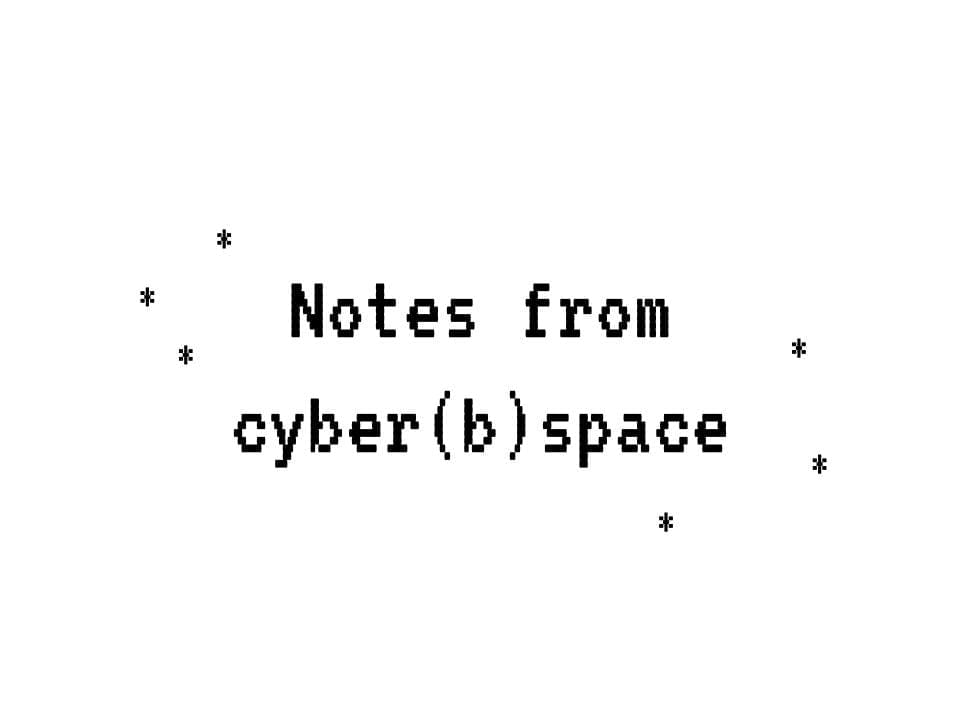
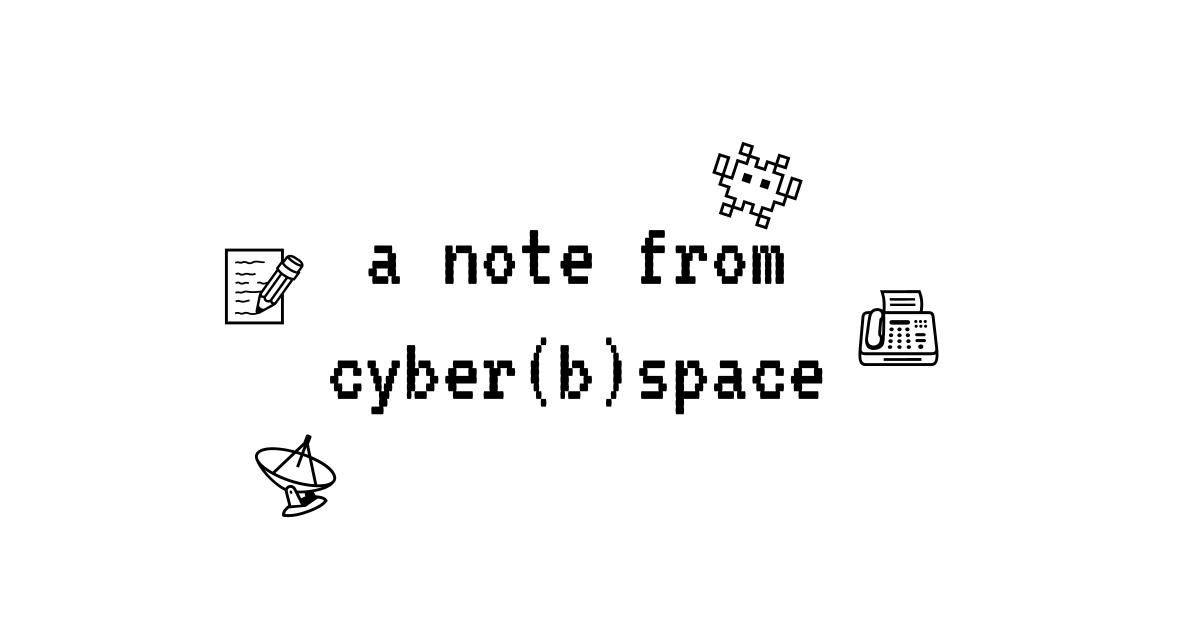
[chore] update social cards (#247)

diff --git a/posts/2025/italy.md b/posts/2025/italy.md
@@ -28,7 +28,7 @@ Let's start with the external. We were totally unprepared for the weather. I had
 Traveling with a toddler, I had also been worried that the jet lag would be tough. But as it turns out, the time difference between Mumbai and Rome is only 3.5 hours. Roughly the same as a trip between New York and San Francisco. I don't recommend 12 hours of travel with a small person who just wants to run around and can't be reasoned with. But I was pleasantly surprised that all of us, toddler included, only felt the effects of jet lag for the first two days.
 
 {% dither "/img/blog/2025/italy-1.png" %}
-<div class="center-text"><small>Our flight plan had us hopping over the Alps on our way to</small></div><br />
+<div class="center-text"><small>Our flight plan had us hopping over the Alps on our way to Rome</small></div><br />
 
 ## The World Through Stendhal's Eyes
 
